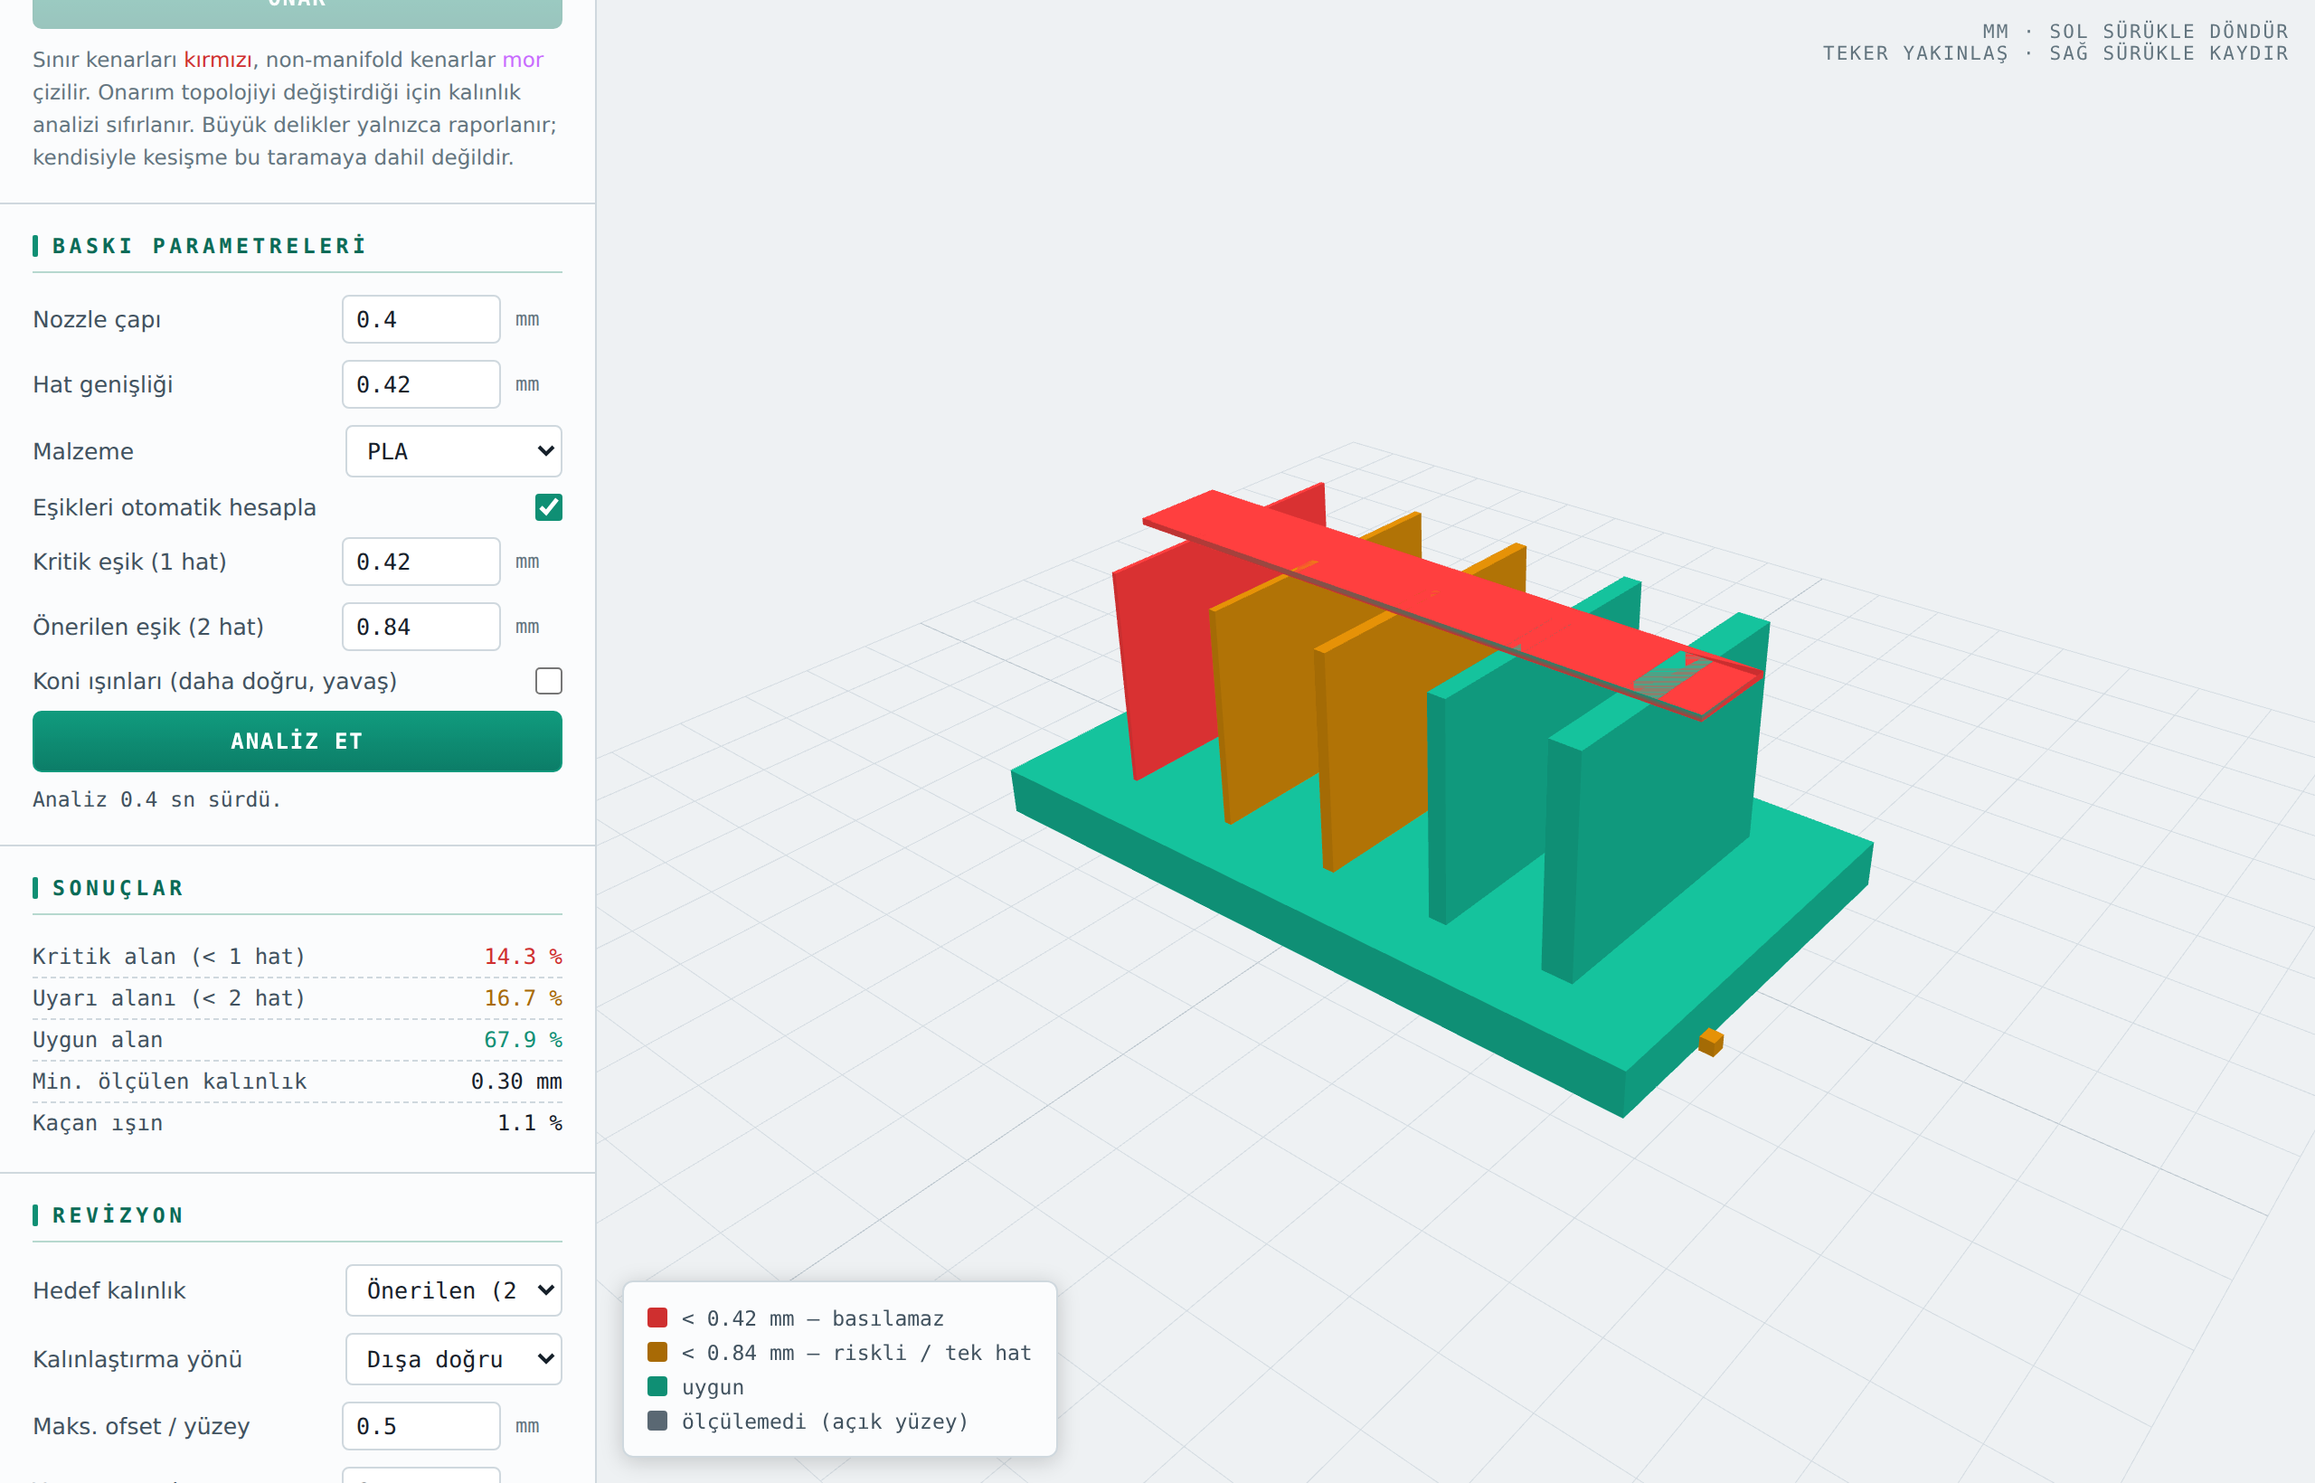
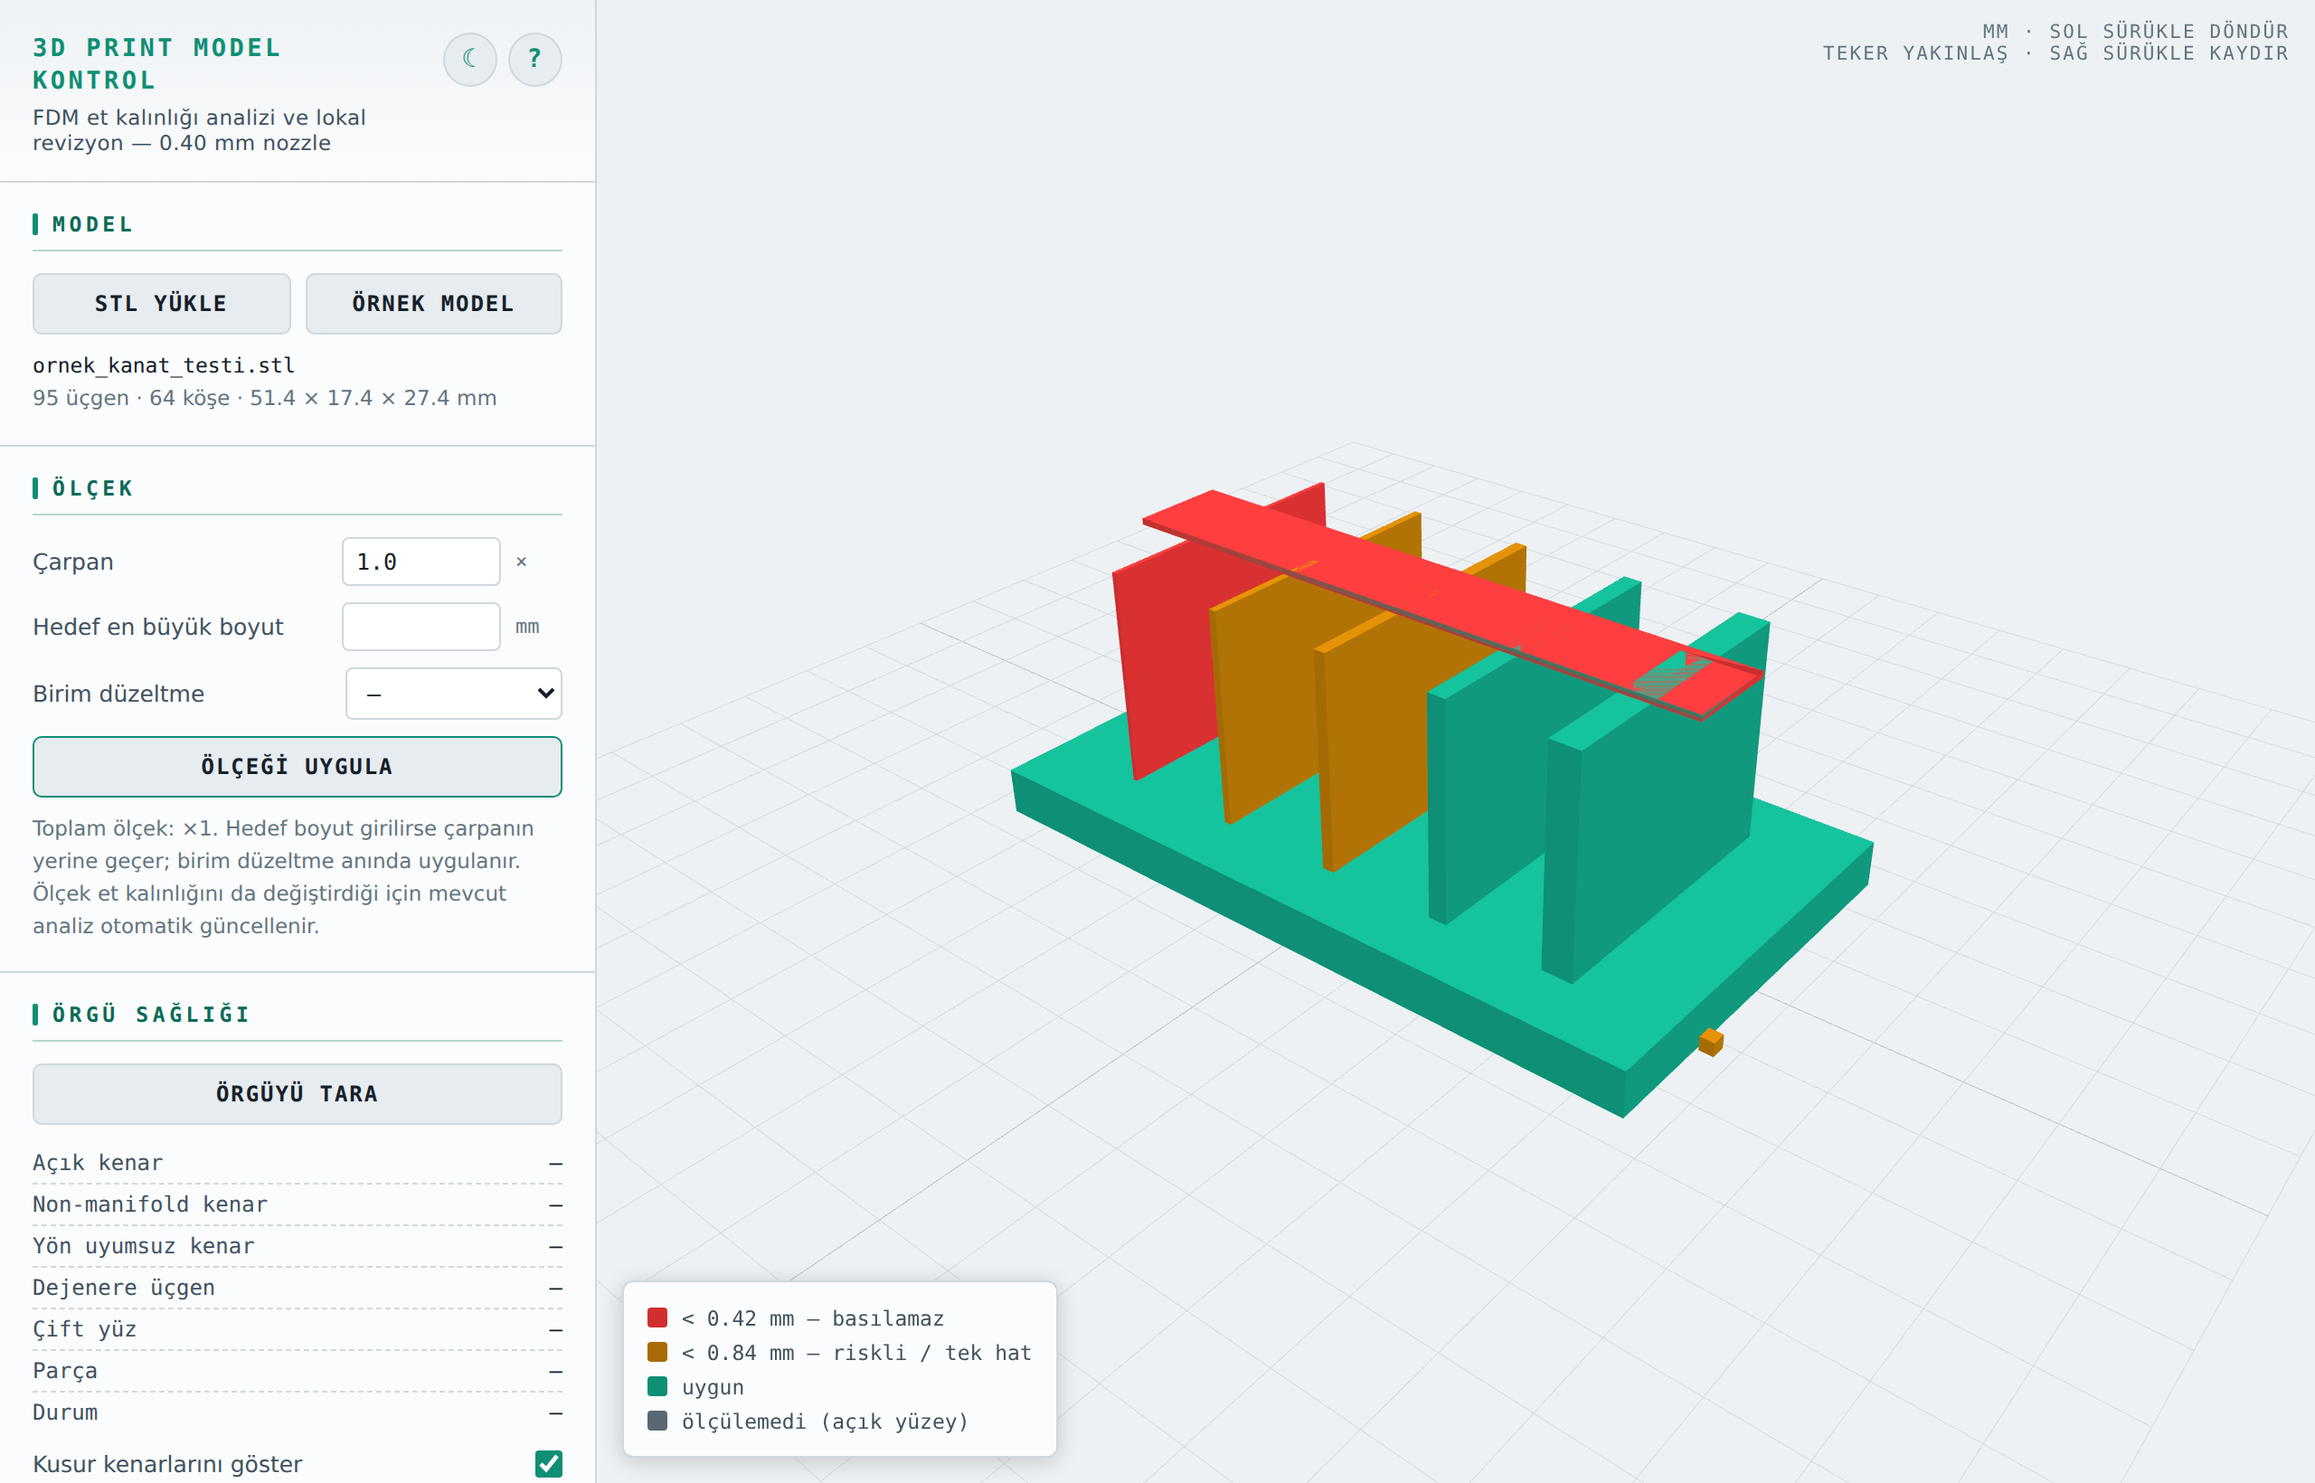
3D Print Model Kontrol guncellendi: olcek ve birim duzeltme

diff --git a/projects/AI_3Dprint_model_kontrol/index.html b/projects/AI_3Dprint_model_kontrol/index.html
@@ -195,6 +195,15 @@ footer p{font-size:11px; color:var(--ink-faint); line-height:1.6}
   </section>
 
   <section>
+    <h2>Ölçek</h2>
+    <div class="row"><label>Çarpan</label><input type="number" id="scFactor" value="1.0" step="0.1" min="0.001"><span class="unit">×</span></div>
+    <div class="row"><label>Hedef en büyük boyut</label><input type="number" id="scTarget" step="1" min="0.1"><span class="unit">mm</span></div>
+    <div class="row"><label>Birim düzeltme</label><select id="scUnit"><option value="">—</option><option value="25.4">inç → mm</option><option value="10">cm → mm</option><option value="1000">m → mm</option></select></div>
+    <button id="btnScale" disabled>ÖLÇEĞİ UYGULA</button>
+    <div class="hint" id="scInfo">Toplam ölçek: ×1. Hedef boyut girilirse çarpanın yerine geçer; birim düzeltme anında uygulanır. Ölçek et kalınlığını da değiştirdiği için mevcut analiz otomatik güncellenir.</div>
+  </section>
+
+  <section>
     <h2>Örgü Sağlığı</h2>
     <button id="btnScan" disabled>ÖRGÜYÜ TARA</button>
     <div id="meshStats" class="kv">
@@ -290,7 +299,7 @@ footer p{font-size:11px; color:var(--ink-faint); line-height:1.6}
 
     <h2>Önerilen iş akışı</h2>
     <ol>
-      <li>STL dosyasını sürükleyip bırak veya <span class="k">STL YÜKLE</span> ile aç. Denemek için <span class="k">ÖRNEK MODEL</span> hazır kusurlarla birlikte gelir.</li>
+      <li>STL dosyasını sürükleyip bırak veya <span class="k">STL YÜKLE</span> ile aç. Denemek için <span class="k">ÖRNEK MODEL</span> hazır kusurlarla birlikte gelir. Birimi yanlış gelen modeli (inç, cm, m) <span class="k">ÖLÇEK</span> bölümünden düzeltebilir, hedef boyut vererek büyütüp küçültebilirsin — ölçek et kalınlığını da değiştirdiği için mevcut analiz otomatik güncellenir.</li>
       <li><span class="k">ÖRGÜYÜ TARA</span>: delikler, ters normaller, kırıntı parçalar gibi kusurlar raporlanır; gerekiyorsa <span class="k">ONAR</span>. Kusurlu örgüde kalınlık ölçümü güvenilmez — bu adım o yüzden önce gelir.</li>
       <li>Nozzle, hat genişliği ve malzemeyi gir. Eşikler otomatik türetilir: kritik = 1 hat, önerilen = 2 hat; PETG'de ×1.15 pay eklenir. <span class="k">ANALİZ ET</span> ile haritayı çıkar.</li>
       <li>Gerekirse <span class="k">REVİZE ET</span>: eşik altı bölgeler yüzey normali yönünde kalınlaştırılır, geçişler yumuşatılır ve model otomatik yeniden analiz edilir.</li>
@@ -319,7 +328,7 @@ const S = {
   posOrig:null, idxOrig:null,  // orijinal kopyalar
   vnorm:null, fnorm:null, farea:null,
   adj:null,                    // komşuluk: Array<Uint32Array>
-  bvh:null, scan:null,
+  bvh:null, scan:null, scaleTotal:1,
   thickF:null, thickV:null,    // yüz / köşe kalınlıkları
   analyzed:false, missed:0, totalArea:0,
   mesh:null, wire:null, geom:null,
@@ -1117,15 +1126,66 @@ function setModel(raw, name){
   applyCam();
 
   clearDefects();
+  S.scaleTotal=1;
+  $("scFactor").value="1.0"; $("scTarget").value=""; $("scUnit").value="";
+  $("scInfo").textContent="Toplam ölçek: ×1. Hedef boyut girilirse çarpanın yerine geçer; birim düzeltme anında uygulanır. Ölçek et kalınlığını da değiştirdiği için mevcut analiz otomatik güncellenir.";
   $("drop").style.display="none";
   $("legend").style.display="none";
   ["sCrit","sWarn","sOk","sMin","sMiss"].forEach(id=>$(id).textContent="—");
+  updateModelInfo();
+  $("status").textContent = S.nf>250000 ? "Uyarı: model büyük, analiz yavaş olabilir." : "";
+  setButtons();
+}
+
+function updateModelInfo(){
+  const bb=S.geom.boundingBox;
+  const size=new THREE.Vector3(); bb.getSize(size);
   $("modelInfo").innerHTML =
     "<span style='font-family:var(--mono);color:var(--ink)'>"+S.name+"</span><br>"+
     S.nf.toLocaleString("tr")+" üçgen · "+S.nv.toLocaleString("tr")+" köşe · "+
     fmt(size.x,1)+" × "+fmt(size.y,1)+" × "+fmt(size.z,1)+" mm";
-  $("status").textContent = S.nf>250000 ? "Uyarı: model büyük, analiz yavaş olabilir." : "";
-  setButtons();
+  return size;
+}
+function applyScale(f){
+  if(!S.geom) return;
+  if(!isFinite(f) || f<=1e-6 || f>=1e6){ $("status").textContent="Geçersiz ölçek çarpanı."; return; }
+  if(Math.abs(f-1)<1e-9){ $("status").textContent="Ölçek değişmedi (×1)."; return; }
+  for(let i=0;i<S.pos.length;i++) S.pos[i]*=f;
+  for(let i=0;i<S.posOrig.length;i++) S.posOrig[i]*=f;
+  S.diag*=f;
+  S.scaleTotal*=f;
+  computeNormals(); buildBVH();
+  S.geom.attributes.position.needsUpdate=true;
+  S.geom.computeVertexNormals();
+  S.geom.computeBoundingBox();
+  const bb=S.geom.boundingBox;
+  const size=new THREE.Vector3(); bb.getSize(size);
+  const center=new THREE.Vector3(); bb.getCenter(center);
+  if(grid){ scene.remove(grid); }
+  const gsize=Math.pow(10, Math.ceil(Math.log10(Math.max(size.x,size.z)*1.6||10)));
+  grid=new THREE.GridHelper(gsize, 20, TH.grid1, TH.grid2);
+  grid.userData.size=gsize;
+  grid.position.y=bb.min.y;
+  grid.visible=$("vGrid").checked;
+  scene.add(grid);
+  orbit.target.copy(center); orbit.r*=f; applyCam();
+  if(S.wire){ scene.remove(S.wire); S.wire.geometry.dispose(); S.wire.material.dispose(); S.wire=null; }
+  if($("vWire").checked){
+    const wg=new THREE.WireframeGeometry(S.geom);
+    S.wire=new THREE.LineSegments(wg, new THREE.LineBasicMaterial({color:TH.wire, transparent:true, opacity:TH.wireOp}));
+    scene.add(S.wire);
+  }
+  // üniform ölçekte kalınlık tam lineer ölçeklenir — analiz yeniden koşturulmadan güncellenir
+  if(S.analyzed){
+    for(let i=0;i<S.thickF.length;i++) S.thickF[i]*=f;
+    for(let i=0;i<S.thickV.length;i++) S.thickV[i]*=f;
+    colorize(); showStats();
+  }
+  if(S.scan) drawDefects(S.scan.bEdges, S.scan.nmEdges);
+  const sz=updateModelInfo();
+  const fS=(+f.toFixed(4)).toString(), tS=(+S.scaleTotal.toFixed(4)).toString();
+  $("scInfo").textContent="Toplam ölçek: ×"+tS+". Hedef boyut girilirse çarpanın yerine geçer; birim düzeltme anında uygulanır. Ölçek et kalınlığını da değiştirdiği için mevcut analiz otomatik güncellenir.";
+  $("status").textContent="Ölçek ×"+fS+" uygulandı — yeni boyut "+fmt(sz.x,1)+" × "+fmt(sz.y,1)+" × "+fmt(sz.z,1)+" mm.";
 }
 
 /* ============================================================
@@ -1195,6 +1255,24 @@ $("fileInput").addEventListener("change", e=>{
   e.target.value="";
 });
 $("btnSample").addEventListener("click", sampleModel);
+$("btnScale").addEventListener("click", ()=>{
+  if(!S.geom) return;
+  let f;
+  const tgt=+$("scTarget").value;
+  if(tgt>0){
+    const size=new THREE.Vector3(); S.geom.boundingBox.getSize(size);
+    const maxDim=Math.max(size.x,size.y,size.z)||1;
+    f=tgt/maxDim;
+    $("scFactor").value=(+f.toFixed(4)).toString();
+    $("scTarget").value="";
+  } else f=+$("scFactor").value;
+  applyScale(f);
+});
+$("scUnit").addEventListener("change", e=>{
+  const f=+e.target.value;
+  e.target.value="";
+  if(f>0 && S.geom) applyScale(f);
+});
 $("btnScan").addEventListener("click", ()=>{ $("status").textContent="Örgü taranıyor…"; setTimeout(()=>scanMesh(false), 10); });
 $("btnFix").addEventListener("click", ()=>{ $("status").textContent="Onarılıyor…"; setTimeout(fixMesh, 10); });
 $("vDefects").addEventListener("change", e=>{ if(defectGroup) defectGroup.visible=e.target.checked; });
@@ -1269,6 +1347,7 @@ function setButtons(){
   $("btnExport").disabled  = !has || analyzing;
   $("btnScan").disabled    = !has || analyzing;
   $("btnFix").disabled     = !S.scan || analyzing;
+  $("btnScale").disabled   = !has || analyzing;
 }
 setButtons();
 autoThresholds();

diff --git a/index.html b/index.html
@@ -227,11 +227,12 @@
         <img class="shot" src="assets/shot-3dprint.png" alt="3D Print Model Kontrol ekran görüntüsü" />
         <div class="body">
           <h3>3D Print Model Kontrol <span class="ver new">Yeni</span></h3>
-          <p>STL modellerde FDM et kalınlığını ışın tabanlı analizle ölçer; basılamaz ve riskli bölgeleri renklendirir. Örgü sağlığı taraması ve onarım, ince bölgeleri kalınlaştıran yerel revizyon, STL dışa aktarım. Dosya hiçbir yere gönderilmez.</p>
+          <p>STL modellerde FDM et kalınlığını ışın tabanlı analizle ölçer; basılamaz ve riskli bölgeleri renklendirir. Örgü sağlığı taraması ve onarım, ölçek/birim düzeltme (inç→mm), ince bölgeleri kalınlaştıran yerel revizyon, STL dışa aktarım. Dosya hiçbir yere gönderilmez.</p>
           <div class="tags">
             <span class="tag">STL analizi</span>
             <span class="tag">Et kalınlığı</span>
             <span class="tag">Onarım / revizyon</span>
+            <span class="tag">Ölçek / birim</span>
             <span class="tag">Çevrimdışı</span>
             <span class="tag when">7 Ağu 2026</span>
           </div>

diff --git a/projects/AI_3Dprint_model_kontrol/README.md b/projects/AI_3Dprint_model_kontrol/README.md
@@ -1,6 +1,6 @@
 # 3D Print Model Kontrol
 
-STL modelleri FDM baskıya göndermeden önce denetleyen, tarayıcıda çalışan bir araç: et kalınlığı analizi, örgü sağlığı taraması, onarım ve yerel revizyon.
+STL modelleri FDM baskıya göndermeden önce denetleyen, tarayıcıda çalışan bir araç: et kalınlığı analizi, örgü sağlığı taraması, onarım, ölçek/birim düzeltme ve yerel revizyon.
 
 **▶ Canlı demo:** https://ahmet3ddd.github.io/ahmetoff/projects/AI_3Dprint_model_kontrol/
 
@@ -19,13 +19,17 @@ STL modelleri FDM baskıya göndermeden önce denetleyen, tarayıcıda çalışa
 
 Eşikler nozzle çapı ve hat genişliğinden otomatik hesaplanır (varsayılan 0.40 mm nozzle → 0.42 / 0.84 mm); elle de girilebilir. Malzeme seçimi (PLA vb.) ve daha isabetli ölçüm için koni ışınları seçeneği vardır. Sonuç panelinde kritik/uyarı/uygun alan yüzdeleri, ölçülen en ince kalınlık ve kaçan ışın oranı raporlanır.
 
+**Ölçek ve birim düzeltme.** STL formatı birim bilgisi taşımadığı için modeller sık sık yanlış ölçekte gelir — inç tabanlı bir CAD'den çıkan dosya 25,4 kat küçük görünür. Üç yoldan düzeltilir: doğrudan **çarpan**, **hedef en büyük boyut** (çarpanı kendisi hesaplar) veya hazır **birim dönüşümü** (inç → mm, cm → mm, m → mm). Ölçek et kalınlığını da değiştirdiği için mevcut analiz otomatik olarak yeniden hesaplanır.
+
 **Örgü sağlığı ve onarım.** Açık kenar, non-manifold kenar, yön uyumsuz kenar, dejenere üçgen, çift yüz ve parça sayısı taranır. Tek tuşla onarım: normaller birleştirilip dışa çevrilir, dejenere/çift yüzler temizlenir, kırıntı parçalar silinir, küçük delikler kapatılır.
 
 **Yerel revizyon.** İnce bölgeler hedef kalınlığa (örn. 2 hat) doğru kalınlaştırılır; yön (dışa/içe) ve yüzey başına azami ofset sınırlandırılabilir. Sonuç **STL olarak indirilir**; orijinale dönme seçeneği vardır.
 
 ## Kullanım
 
-Kurulum gerekmez. `index.html` dosyasını tarayıcıda aç, STL dosyanı sürükleyip bırak (veya örnek modeli yükle). Önerilen akış: **Örgüyü tara → gerekiyorsa Onar → Analiz et → gerekiyorsa Revize et → STL indir**.
+Kurulum gerekmez. `index.html` dosyasını tarayıcıda aç, STL dosyanı sürükleyip bırak (veya örnek modeli yükle). Önerilen akış: **Ölçeği doğrula → Örgüyü tara → gerekiyorsa Onar → Analiz et → gerekiyorsa Revize et → STL indir**.
+
+Modelin boyutları yükleme sonrası panelde yazar (örn. `51.4 × 17.4 × 27.4 mm`); beklediğinden farklıysa önce ölçeği düzelt, çünkü kalınlık eşikleri milimetre üzerinden çalışır.
 
 Dosya hiçbir yere gönderilmez; bütün işlem tarayıcının içinde, yerel olarak yapılır.
 

diff --git a/README.md b/README.md
@@ -73,7 +73,7 @@ Geleneksel yedi-sekiz geçme desenlerini V8 tipi parametrelerle oluşturur.
 ### 3D Print Model Kontrol
 STL modellerde FDM et kalınlığını ışın tabanlı analizle ölçer; basılamaz (1 hattın altı) ve riskli (2 hattın altı) bölgeleri model üzerinde renklendirir. Eşikler nozzle çapı ve hat genişliğinden otomatik hesaplanır.
 
-Ayrıca **örgü sağlığı taraması** (açık kenar, non-manifold, yön uyumsuzluğu, dejenere/çift yüz, kırıntı parça), tek tuşla **onarım**, ince bölgeleri hedefe kalınlaştıran **yerel revizyon** ve **STL dışa aktarım** içerir. Dosya hiçbir yere gönderilmez — analiz tamamen tarayıcıda yapılır.
+Ayrıca **örgü sağlığı taraması** (açık kenar, non-manifold, yön uyumsuzluğu, dejenere/çift yüz, kırıntı parça), tek tuşla **onarım**, **ölçek ve birim düzeltme** (inç/cm/m → mm, ya da hedef boyuta göre otomatik çarpan), ince bölgeleri hedefe kalınlaştıran **yerel revizyon** ve **STL dışa aktarım** içerir. Dosya hiçbir yere gönderilmez — analiz tamamen tarayıcıda yapılır.
 
 <img src="assets/shot-3dprint.png" alt="3D Print Model Kontrol" width="100%" />
 
